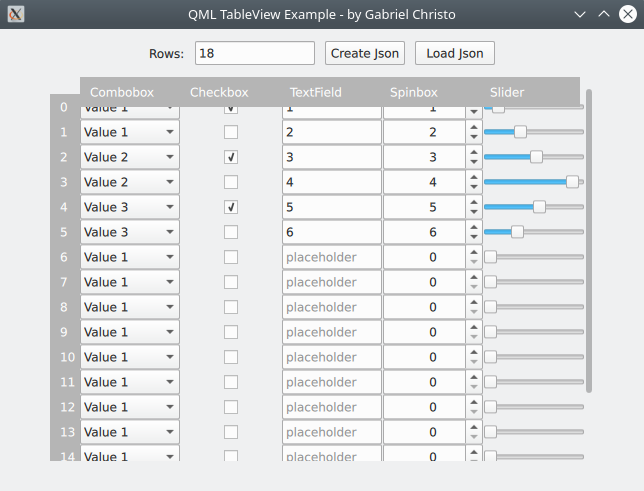
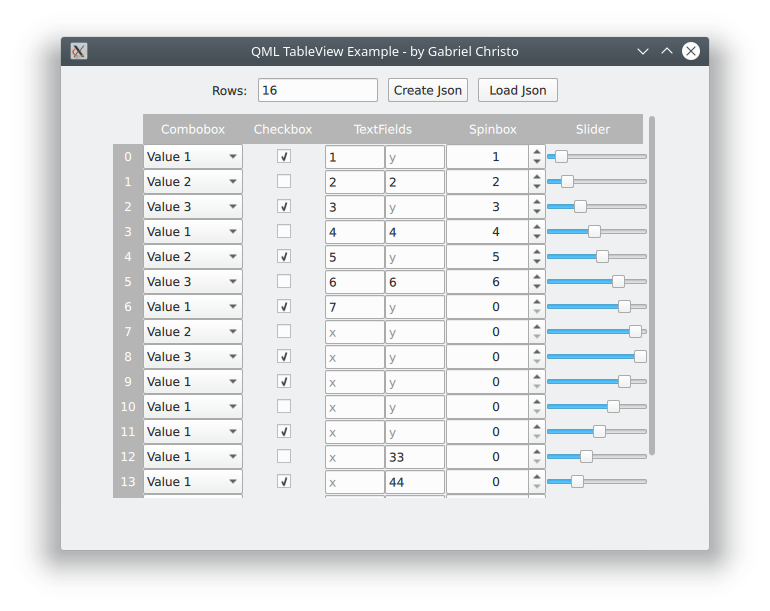
column model with two textfields

diff --git a/main.qml b/main.qml
@@ -12,15 +12,16 @@ ApplicationWindow {
     title: qsTr("QML TableView Example - by Gabriel Christo")
 
     property var combobox_model: ["Value 1", "Value 2", "Value 3"] // combobox stringlist
-    property var horizontal_header_data: ["Combobox", "Checkbox", "TextField", "Spinbox", "Slider"] // table header
+    property var horizontal_header_data: ["Combobox", "Checkbox", "TextFields", "Spinbox", "Slider"] // table header
 
     // updates model's row number
     function update_table_model(new_rows_number){
-        // row data model
+        // row data model (must be paired with table model)
         let row_data = {
             combobox_index: 0,
             checkbox_state: 0,
-            textfield_string: "",
+            textfield_1_string: "",
+            textfield_2_string: "",
             spinbox_value: 0,
             slider_value: 0
         }
@@ -65,7 +66,9 @@ ApplicationWindow {
             Button {
                 text: "Create Json"
                 // passing table model data as string to backend
-                onClicked: JsonUtils.saveJson(JSON.stringify(tablemodel.rows))
+                onClicked:{
+                    JsonUtils.saveJson(JSON.stringify(tablemodel.rows))
+                 }
             }
             Button {
                 text: "Load Json"
@@ -97,7 +100,7 @@ ApplicationWindow {
             ScrollIndicator.vertical: ScrollIndicator { }
 
             // width and height providers
-            property var columnWidths: [100, 100, 100, 100, 100]
+            property var columnWidths: [100, 80, 120, 100, 100]
             columnWidthProvider: function(column){ return columnWidths[column] }
             rowHeightProvider: function (column) { return 25 }
 
@@ -112,7 +115,7 @@ ApplicationWindow {
                         width: tableview.columnWidthProvider(modelData); height: 30
                         text: horizontal_header_data[index]
                         padding: 10
-                        verticalAlignment: Text.AlignVCenter
+                        verticalAlignment: Text.AlignVCenter; horizontalAlignment: Text.AlignHCenter
                         color: "white"
                         background: Rectangle { color: "#b5b5b5" }
                     }
@@ -130,7 +133,7 @@ ApplicationWindow {
                         width: 30; height: tableview.rowHeightProvider(modelData)
                         text: index
                         padding: 10
-                        verticalAlignment: Text.AlignVCenter
+                        verticalAlignment: Text.AlignVCenter; horizontalAlignment: Text.AlignHCenter
                         color: "white"
                         background: Rectangle { color: "#b5b5b5" }
                     }
@@ -142,7 +145,7 @@ ApplicationWindow {
                 id: tablemodel
                 TableModelColumn{ display: "combobox_index" }
                 TableModelColumn{ display: "checkbox_state" }
-                TableModelColumn{ display: "textfield_string" }
+                TableModelColumn{ display: "textfield_1_string"; edit: "textfield_2_string" } // using two roles
                 TableModelColumn{ display: "spinbox_value" }
                 TableModelColumn{ display: "slider_value" }
             }
@@ -166,11 +169,22 @@ ApplicationWindow {
                 }
                 DelegateChoice {
                     column: 2
-                    delegate: TextField {
-                        text: model.display
-                        placeholderText: "placeholder"
-                        selectByMouse: true
-                        onTextEdited: model.display = this.text
+                    delegate: RowLayout { // two textfields in same column model
+                        spacing: 0
+                        TextField {
+                            implicitWidth: parent.width / 2
+                            text: model.display
+                            placeholderText: "x"
+                            selectByMouse: true
+                            onTextEdited: model.display = this.text
+                        }
+                        TextField {
+                            implicitWidth: parent.width / 2
+                            text: model.edit
+                            placeholderText: "y"
+                            selectByMouse: true
+                            onTextEdited: model.edit = this.text
+                        }
                     }
                 }
                 DelegateChoice {

diff --git a/README.md b/README.md
@@ -6,4 +6,4 @@ A very simple qml dynamic tableview example, with:
 - vertical and horizontal headers
 - json serialization
 
-<img src="screenshot.png" width="640" height="480">
+<img src="screenshot.png" width="770" height="611">
